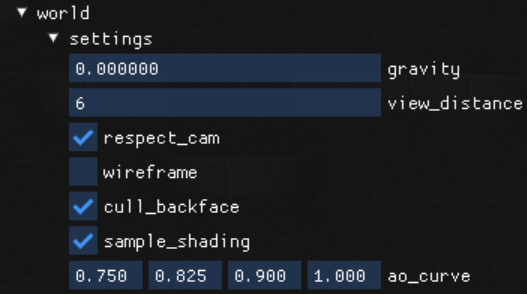
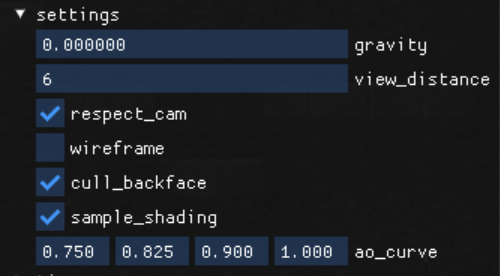
test

Changed region(s): [[0.03, 0.0, 1.0, 1.0]]

diff --git a/_posts/2018-08-14-Reflection-in-Exile.md b/_posts/2018-08-14-Reflection-in-Exile.md
@@ -19,28 +19,27 @@ The end result allowed me to write code such as this, to print any structure:
 template<typename T>
 void print_struct(T value) { 
 	
-  uint8_t* addr = &value;
-  _type_info* info = TYPEINFO(T);
+	uint8_t* addr = &value;
+	_type_info* info = TYPEINFO(T);
 
-  print(info->name);
+	print(info->name);
 	
-  print('{');
-  for(int i = 0; i < info->_struct.member_count; i++) {
+	print('{');
+	for(int i = 0; i < info->_struct.member_count; i++) {
 
-    print(info->_struct.member_names[i]);
-    print(" : ");
+		print(info->_struct.member_names[i]);
+		print(" : ");
 
-    uint8_t* member_addr = addr + info->_struct.member_offsets[i];
+		uint8_t* member_addr = addr + info->_struct.member_offsets[i];
+		_type_info* member_type = TYPEINFO_H(info->_struct.member_types[i]);
 
-    _type_info* member_type = TYPEINFO_H(info->_struct.member_types[i]);
+		print_type(member_addr, member_type);
 
-    print_type(member_addr, member_type);
-
-    if(i < info->_struct.member_count - 1) {
-      print(", ");
-    }
-  }
-  print('}');
+		if(i < info->_struct.member_count - 1) {
+			print(", ");
+		}
+	}
+	print('}');
 }
 ```
 Usage:
@@ -48,13 +47,13 @@ Usage:
 ```c++
 
 struct inner {
-  int i = 10;
-  float f = 10.0f;
+	int i = 10;
+	float f = 10.0f;
 };
 
 struct outer {
-  string name = "Data!";
-  inner data;
+	string name = "Data!";
+	inner data;
 };
 
 outer o;
@@ -74,43 +73,47 @@ The reflection system relies on a global (thread-local) table that contains all 
 
 ```c++
 enum class Type : uint8_t {
-  _void,
-  _int,
-  _float,
-  _ptr,
-  _struct,
-  // ...array, enum, etc...
+	_void,
+	_int,
+	_float,
+	_ptr,
+	_struct,
+	// ...array, enum, etc...
 };
 
 struct Type_void_info {};
 struct Type_int_info {
-  bool is_signed = false;
+	bool is_signed = false;
 };
 struct Type_float_info {};
 struct Type_bool_info {};
 struct Type_ptr_info {
-  type_id to = 0;
+	type_id to = 0;
 };
 struct Type_struct_info {
-  type_id  member_types[96]    = {};
-  string   member_names[96];
-  uint32_t member_offsets[96]  = {};
-  uint8_t  member_circular[96] = {};
-  uint32_t member_count        = 0;
+	type_id		member_types[96]	= {};
+	string 		member_names[96];
+	uint32_t 	member_offsets[96]	= {};
+	uint8_t 	member_circular[96] = {};
+	uint32_t 	member_count		= 0;
 };
 
 struct _type_info {
-  Type type_type 	= Type::_void;
-  uint64_t size 	= 0;
-  string name;
-  union {
-    Type_void_info   _void;
-    Type_int_info    _int;
-    Type_float_info  _float;
-    Type_bool_info   _bool;
-    Type_ptr_info    _ptr;
-    Type_struct_info _struct;
-  };
+	
+    Type type_type 	= Type::_void;
+    type_id hash;
+
+    uint64_t size   = 0;
+    string name;
+
+	union {
+		Type_void_info	 _void;
+		Type_int_info    _int;
+		Type_float_info  _float;
+		Type_bool_info   _bool;
+		Type_ptr_info    _ptr;
+		Type_struct_info _struct;
+	};
 };
 ```
 
@@ -124,13 +127,14 @@ map<type_id,_type_info> type_table;
 template<typename T>
 struct _get_type_info { 
 	
-  static _type_info* get_type_info() {
+	static _type_info* get_type_info() {
 
-    return type_table.try_get(typeid(T).hash_code());
-  }
+		return type_table.try_get(typeid(T).hash_code());
+	}
 };
 
-#define TYPEINFO(...) _get_type_info< __VA_ARGS__ >::get_type_info()
+#define TYPEINFO(...) _get_type_info< __VA_ARGS__ >::get_type_info()    // get by compile-time type
+#define TYPEINFO_H(h) type_table.try_get(h)                             // get by hash
 ```
 
 Providing the ``TYPEINFO()`` syntax requires a bit of macro trickery via varargs to group incorrectly comma-delinated template types and a static member function that can be arbitrary specialized.
@@ -143,23 +147,25 @@ Getting information for pointers is slightly more complicated: there's no limit 
 template<typename T>
 struct _get_type_info<T*> {
 
-  static _type_info* get_type_info() {
+	static _type_info* get_type_info() {
 
-    _type_info* info = type_table.try_get(typeid(T*).hash_code());
-    if(info) return info;
+		_type_info* info = type_table.try_get(typeid(T*).hash_code());
+		if(info) return info;
 
-    _type_info* to = TYPEINFO(T);
+		_type_info* to = TYPEINFO(T);
 
-    _type_info ptr_t;
+		_type_info ptr_t;
 		
-    ptr_t.type_type = Type::_ptr;
-    ptr_t.size      = sizeof(T*);
-    ptr_t.name      = to->name;
+		ptr_t.type_type = Type::_ptr;
+		ptr_t.hash 		= typeid(T*).hash_code();
+
+		ptr_t.size 		= sizeof(T*);
+		ptr_t.name 		= to->name;
 		
-    ptr_t._ptr.to   = to->hash;
+		ptr_t._ptr.to 	= to->hash;
 		
-    return type_table.insert(typeid(T*).hash_code(), ptr_t);
-  }
+		return type_table.insert(ptr_t.hash, ptr_t);
+	}
 };
 ```
 
@@ -168,7 +174,7 @@ Fully built out, along with some utility functions such as enum-stringification 
 ```c++
 ImGui::EditAny("settings", &settings);
 ```
-<img src="../assets/ui.png">
+<img src="../assets/ui.png" style="max-width: 75%; margin: 0 auto;">
 
 ## Metaprogramming
 
